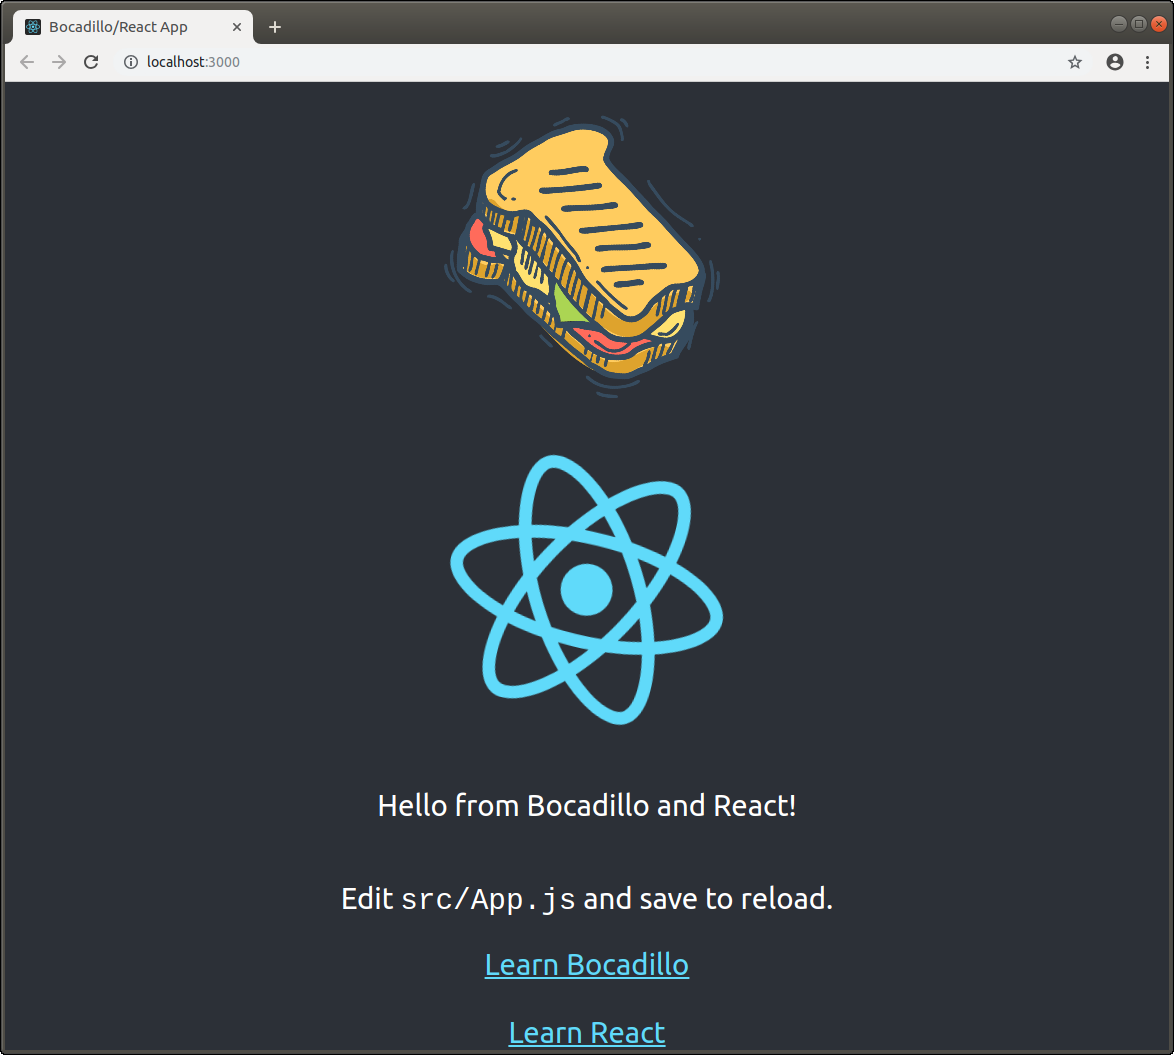
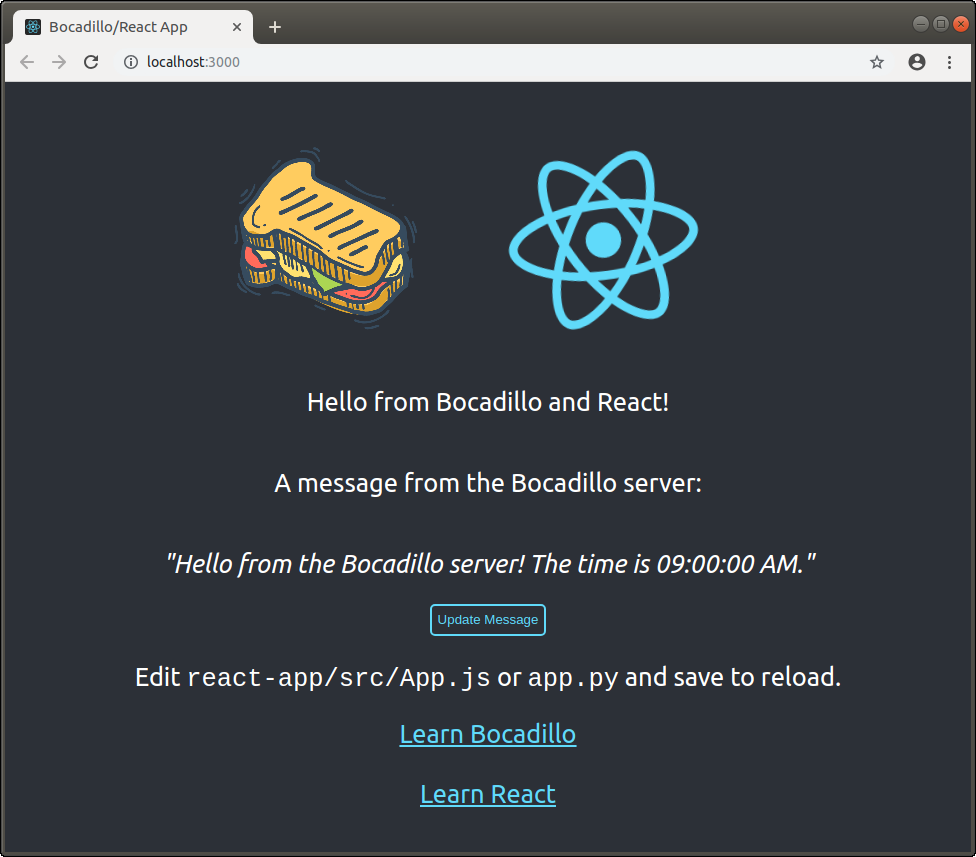
add api call to react app

diff --git a/react-app/src/App.js b/react-app/src/App.js
@@ -1,19 +1,38 @@
 import React, { Component } from "react";
 import logo from "./logo.svg";
+import axios from "axios";
 import bocadillo_logo from "./bocadillo.png";
 import "./App.css";
 
 class App extends Component {
+  constructor(props) {
+    super(props);
+    this.updateBocadilloMessage = this.updateBocadilloMessage.bind(this);
+    this.state = { bocadilloMessage: "fetching..." };
+  }
   render() {
     return (
       <div className="App">
         <header className="App-header">
-          <img src={bocadillo_logo} className="App-logo" alt="bocadillo logo" />
-          <img src={logo} className="App-logo" alt="react logo" />
+          <div>
+            <img
+              src={bocadillo_logo}
+              className="App-logo"
+              alt="bocadillo logo"
+            />
+            <img src={logo} className="App-logo" alt="react logo" />
+          </div>
           <p>Hello from Bocadillo and React!</p>
+          <p>A message from the Bocadillo server: </p>
+          <p className="italic">"{this.state.bocadilloMessage}"</p>
+          <button className="App-button" onClick={this.updateBocadilloMessage}>
+            Update Message
+          </button>
           <p>
-            Edit <code>src/App.js</code> and save to reload.
+            Edit <code>react-app/src/App.js</code> or <code>app.py</code> and
+            save to reload.
           </p>
+
           <a
             className="App-link"
             href="https://github.com/bocadilloproject/bocadillo"
@@ -34,6 +53,13 @@ class App extends Component {
         </header>
       </div>
     );
+  }
+  componentDidMount() {
+    this.updateBocadilloMessage();
+  }
+  async updateBocadilloMessage() {
+    const bocadilloResponse = await axios.get("/api/message");
+    this.setState({ bocadilloMessage: bocadilloResponse.data.message });
   }
 }
 

diff --git a/react-app/src/App.css b/react-app/src/App.css
@@ -4,7 +4,7 @@
 
 .App-logo {
   animation: App-logo-spin infinite 20s linear;
-  height: 40vmin;
+  height: 30vmin;
   pointer-events: none;
 }
 
@@ -23,6 +23,21 @@
   color: #61dafb;
 }
 
+.App-button {
+  color: #61dafb;
+  border: 2px solid #61dafb;
+  background-color: transparent;
+  border-radius: 5px;
+  line-height: 2em;
+  transition: 0.5s;
+}
+
+.App-button:hover {
+  color: white;
+  border: 2px solid white;
+  cursor: pointer;
+}
+
 @keyframes App-logo-spin {
   from {
     transform: rotate(0deg);
@@ -30,4 +45,8 @@
   to {
     transform: rotate(360deg);
   }
+}
+
+.italic {
+  font-style: italic;
 }

diff --git a/app.py b/app.py
@@ -1,12 +1,14 @@
 from bocadillo import App, Templates
 import os
+import time
+
 
 app = App()
 TEMPLATES_DIR = os.path.join(
-    os.path.dirname(os.path.realpath(__file__)), "react-frontend/build"
+    os.path.dirname(os.path.realpath(__file__)), "react-app/build"
 )
 STATIC_DIR = os.path.join(
-    os.path.dirname(os.path.realpath(__file__)), "react-frontend/build/static"
+    os.path.dirname(os.path.realpath(__file__)), "react-app/build/static"
 )
 
 app = App(static_dir=STATIC_DIR)
@@ -16,6 +18,13 @@ templates = Templates(app, directory=TEMPLATES_DIR)
 @app.route("/")
 async def index(req, res):
     res.html = await templates.render("index.html")
+
+
+@app.route("/api/message")
+async def api(req, res):
+    now = time.strftime("%I:%M:%S %p")
+    message = f"Hello from the Bocadillo server! The time is {now}."
+    res.media = {"message": message}
 
 
 if __name__ == "__main__":

diff --git a/README.md b/README.md
@@ -27,14 +27,15 @@ yarn install  # or npm install
 
 Now that you have dependencies installed, you can start development.
 
-You can use `create-react-app`'s hot-reloading functionality with Bocadillo, which allows you to make changes and instantly see them in the browser.
 
-In one terminal, run Bocadillo on its default port of 8000 to expose its API endpoints to the React app:
+### Run the Server
+In one terminal, run the Bocadillo app with the uvicorn server. This will run on port 8000 and expose its API endpoints to the React app. Pass the `--reload` flag so that changes made to the Python code automatically reload and are available to the React app.
 
 ```bash
-python app.py
+uvicorn app:app --reload
 ```
 
+### Run the React Application
 In another terminal, run React's development server on its default port of 3000:
 
 ```bash
@@ -51,8 +52,11 @@ It should look like this:
 </a>
 </p>
 
+#### Proxy to Bocadillo in Development
+Any requests that do not have `text/html` in their `Accept` header will be proxied to Bocadillo. To learn more about how requests are proxied with create-react-app, see its [documentation](https://facebook.github.io/create-react-app/docs/proxying-api-requests-in-development).
 
-Any requests that fail on port 3000 will be retried on port 8000 (where the Bocadillo app is being served) due to the `proxy` key in`react-app/package.json`. To learn more about how requests are proxied with create-react-app, see its [documentation](https://facebook.github.io/create-react-app/docs/proxying-api-requests-in-development).
+#### Hot Reloding
+Any changes to the frontend code will cause the browser to reload immediately. Changes to the server code will be available immediately, but you may have to refresh the browser yourself depending on when your React App makes requests to the Bocadillo server.
 
 ## Building
 
@@ -68,7 +72,7 @@ To learn more, see create-react-app's [documentation](https://facebook.github.io
 You can now serve the whole React app and all of its static assets with Bocadillo:
 
 ```bash
-python app.py
+uvicorn app:app
 ```
 
 Now open http://localhost:8000 to see your production-ready app!
